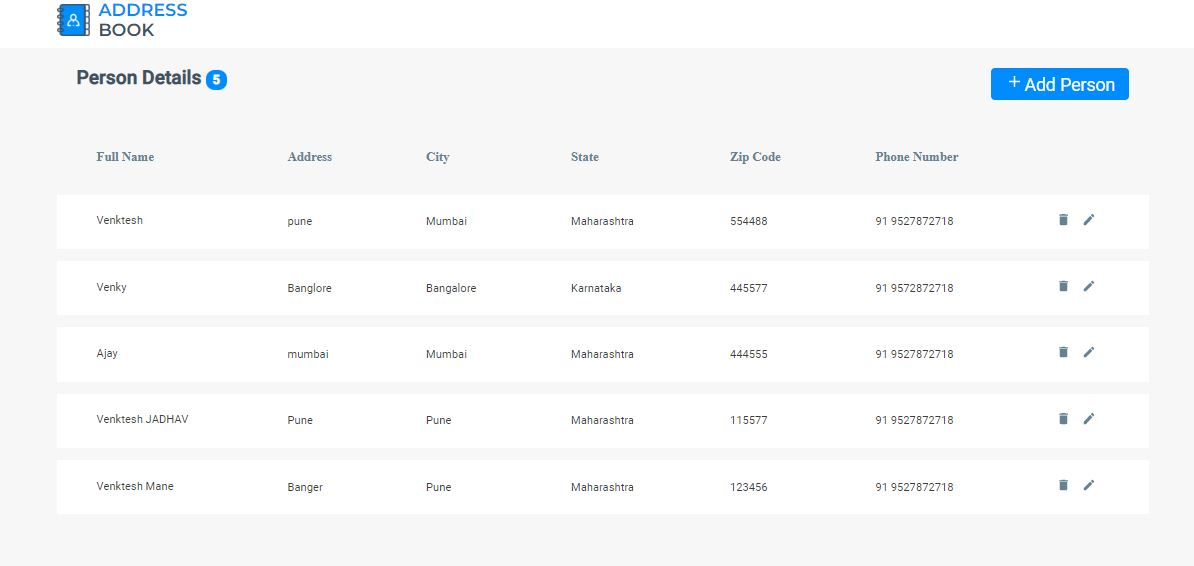
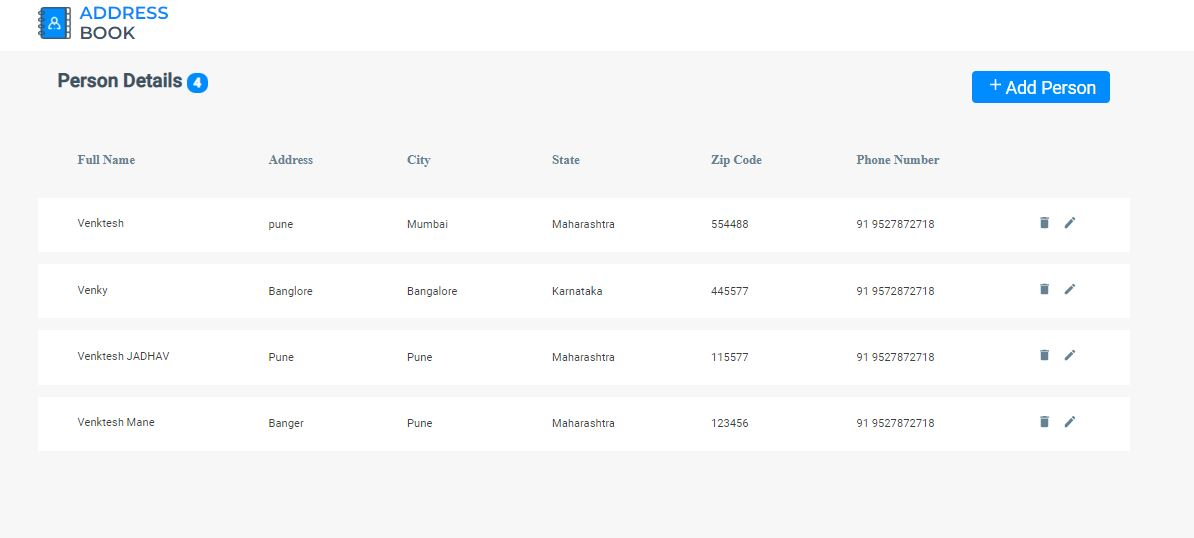
ADDED: Function to remove contact from local storage

diff --git a/addressBookHome.js b/addressBookHome.js
@@ -6,10 +6,12 @@ window.addEventListener("DOMContentLoaded", (event) => {
   createInnerHtml();
 });
 
+const getContactFromLocalStorage = () => {
+  return localStorage.getItem('ContactList') ? JSON.parse(localStorage.getItem('ContactList')) : [];
+};
+
 const createInnerHtml = () => {
-  if (contactList.length == 0) {
-    return;
-  }
+
   const headerHtml = `<tr>
     <th>Full Name</th>
     <th>Address</th>
@@ -19,6 +21,9 @@ const createInnerHtml = () => {
     <th>Phone Number</th>
     </tr>`;
   let innerHtml = `${headerHtml}`;
+  if (contactList.length == 0) {
+    return;
+  }
   for (let contact of contactList) {
     innerHtml = `${innerHtml} 
         <tr>
@@ -37,6 +42,15 @@ const createInnerHtml = () => {
   document.querySelector("#table-display").innerHTML = innerHtml;
 };
 
-const getContactFromLocalStorage = () =>{
-  return localStorage.getItem('ContactList') ? JSON.parse(localStorage.getItem('ContactList')) : []
+const remove = (node) => {
+  let removeContact = contactList.find(contact => contact._id == node.id);
+  if (!removeContact) {
+    return;
+  }
+  const index = contactList.map(contact => contact._id).indexOf(removeContact._id);
+  contactList.splice(index, 1);
+  localStorage.setItem("ContactList", JSON.stringify(contactList));
+  document.querySelector(".contact-count").textContent = contactList.length;
+  createInnerHtml();
+  window.location.replace("C:\\Users\\user\\Desktop\\LFP_Batch\\Final_Workshop\\addressBookHome.html");
 }
